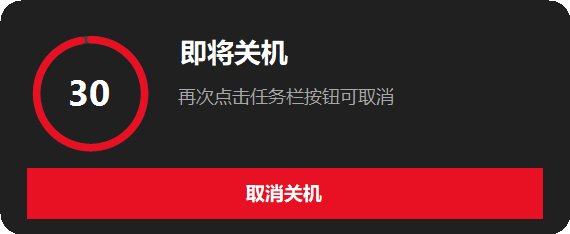
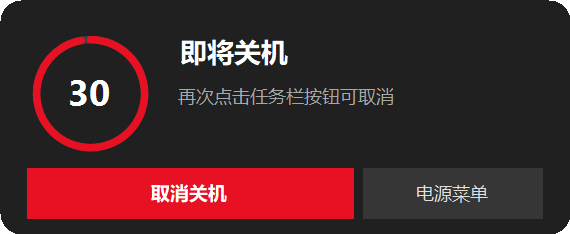
feat: power menu button on the countdown card; drop the right-click claim

Changed region(s): [[0.5965, 0.7179, 0.9544, 0.9573], [0.2386, 0.7778, 0.5667, 0.8675]]

diff --git a/src/PowerButton.cs b/src/PowerButton.cs
@@ -369,6 +369,7 @@ namespace PowerButton
                 case "preview.button": return en ? "Close preview" : (ja ? "プレビューを閉じる" : "关闭预览");
                 case "cancel.shutdown": return en ? "Cancel shutdown" : (ja ? "シャットダウンを中止" : "取消关机");
                 case "cancel.restart": return en ? "Cancel restart" : (ja ? "再起動を中止" : "取消重启");
+                case "card.menu": return en ? "Power menu" : (ja ? "電源メニュー" : "电源菜单");
 
                 case "menu.sleep": return en ? "Sleep" : (ja ? "スリープ" : "睡眠");
                 case "menu.restart": return en ? "Restart" : (ja ? "再起動" : "重启");
@@ -605,12 +606,16 @@ namespace PowerButton
         private readonly Label _caption = new Label();
         private readonly Label _detail = new Label();
         private readonly Button _cancel = new Button();
+        private readonly Button _menu = new Button();
 
         private bool _finished;
         private bool _cancelling;
 
         // 倒计时走完（而不是被取消）时为 true：由调用方在这之后真正执行关机。
         internal bool Expired;
+
+        // 卡片上的「电源菜单」被点时置位：取消这次倒计时，改由调用方打开菜单。
+        internal bool OpenMenuRequested;
 
         internal CountdownForm(PowerAction action, int seconds, EventWaitHandle signal, bool preview)
         {
@@ -645,7 +650,7 @@ namespace PowerButton
                 ? L.T("preview.hint")
                 : L.T("cancel.hint");
 
-            _cancel.SetBounds(Ui.P(18), Ui.P(112), Ui.P(344), Ui.P(34));
+            _cancel.SetBounds(Ui.P(18), Ui.P(112), Ui.P(218), Ui.P(34));
             _cancel.FlatStyle = FlatStyle.Flat;
             _cancel.FlatAppearance.BorderSize = 0;
             _cancel.FlatAppearance.MouseOverBackColor = Color.FromArgb(198, 12, 28);
@@ -657,10 +662,25 @@ namespace PowerButton
             _cancel.Cursor = Cursors.Hand;
             _cancel.Click += OnCancelClick;
 
+            // 右键在任务栏固定项上归 Explorer 管，快捷方式收不到；菜单挂在卡片上，
+            // 一次点击关机、再一眼就能看到菜单入口。
+            _menu.SetBounds(Ui.P(242), Ui.P(112), Ui.P(120), Ui.P(34));
+            _menu.FlatStyle = FlatStyle.Flat;
+            _menu.FlatAppearance.BorderSize = 0;
+            _menu.FlatAppearance.MouseOverBackColor = Color.FromArgb(78, 78, 78);
+            _menu.BackColor = Color.FromArgb(54, 54, 54);
+            _menu.ForeColor = Color.FromArgb(224, 224, 224);
+            _menu.Font = new Font(L.FontFamily, 9f);
+            _menu.Text = L.T("card.menu");
+            _menu.Cursor = Cursors.Hand;
+            _menu.Visible = !preview;
+            _menu.Click += OnMenuClick;
+
             Controls.Add(_ring);
             Controls.Add(_caption);
             Controls.Add(_detail);
             Controls.Add(_cancel);
+            Controls.Add(_menu);
 
             _timer.Interval = 40;
             _timer.Tick += OnTick;
@@ -732,6 +752,16 @@ namespace PowerButton
         private void OnCancelClick(object sender, EventArgs e)
         {
             RequestCancel();
+        }
+
+        private void OnMenuClick(object sender, EventArgs e)
+        {
+            if (_finished || _cancelling) return;
+            _cancelling = true;
+            _timer.Stop();
+            _finished = true;
+            OpenMenuRequested = true;
+            Close();
         }
 
         private void RequestCancel()
@@ -1249,6 +1279,12 @@ namespace PowerButton
             }
 
             // 只有倒计时真的走完才动手；被取消 / 窗口被关掉时什么都不做。
+            if (form != null && form.OpenMenuRequested)
+            {
+                RunMenu(Config.Delay);
+                return;
+            }
+
             if (form != null && form.Expired && !preview)
             {
                 if (!Native.ExitShutdown(action == PowerAction.Restart))

diff --git a/README.ja.md b/README.ja.md
@@ -20,7 +20,7 @@
 
 やりたいことはこれだけです。**ワンクリックでシャットダウン、数秒だけ取り消せる。** 確認ダイアログも、「もう一度押して確定」も、スタートメニューまで戻る手間もありません。
 
-右クリックで残りの電源メニュー——スリープ、再起動、サインアウト、ロック、ディスプレイをオフ、時間を指定してシャットダウン——が開きます。角丸も余白もフォントも Windows 11 に合わせて描いているので、どの拡大率でも、どの表示言語でも自然に見えます。
+カードには 2 つ目のボタンがあり、残りの電源メニュー——スリープ、再起動、サインアウト、ロック、ディスプレイをオフ、時間を指定してシャットダウン——が開きます。角丸も余白もフォントも Windows 11 に合わせて描いているので、どの拡大率でも、どの表示言語でも自然に見えます。
 
 <img src="docs/screenshots/01-taskbar.png" width="133" alt="スタートの隣に並んだ電源ボタン">
 
@@ -38,7 +38,7 @@
 - **フォーカスを奪いません**。カードは最前面の小さなウィンドウなので、後ろの作業も入力もそのまま続きます。
 - **すべて自前で描画**。リングもメニューも余白もフォントもプログラムが描くため、1080p でも 4K でも崩れません。
 
-<sub>裏側は静かです。ログなし、通信なし、常駐プロセスなし、管理者権限も不要。書き込むのはインストール時と設定変更時の 3 か所だけ——タスクバーのショートカット、`%LOCALAPPDATA%\PowerButton\`、`HKCU` の右クリックメニュー項目 1 つ。</sub>
+<sub>裏側は静かです。ログなし、通信なし、常駐プロセスなし、管理者権限も不要。書き込むのはインストール時と設定変更時の 3 か所だけ——タスクバーのショートカット、`%LOCALAPPDATA%\PowerButton\`、`HKCU` のシェル動詞 1 つ。</sub>
 
 ## インストール
 
@@ -65,7 +65,7 @@ cd taskbar-power-button
 powershell -NoProfile -ExecutionPolicy Bypass -File .\install.ps1
 ```
 
-`install.ps1` はアイコンを用意し、.NET Framework 付属の `csc.exe` で `src\PowerButton.cs` をコンパイルし、現在のショートカットをバックアップしてから同じ場所を書き換え、右クリックメニューの動詞を登録して、シェルを更新します。
+`install.ps1` はアイコンを用意し、.NET Framework 付属の `csc.exe` で `src\PowerButton.cs` をコンパイルし、現在のショートカットをバックアップしてから同じ場所を書き換え、`HKCU` にシェル動詞を登録して、シェルを更新します。
 </details>
 
 ## 使い方
@@ -74,14 +74,14 @@ powershell -NoProfile -ExecutionPolicy Bypass -File .\install.ps1
 | --- | --- |
 | **左クリック** | カウントダウン画面（既定 5 秒）が開きます。0 になって初めてシャットダウンします |
 | **カウントダウン中にもう一度クリック** | 中止します。Windows 側には何も登録していないので、取り消すべき処理は存在しません |
-| **<kbd>Esc</kbd> または画面内のボタン** | 上と同じ |
-| **<kbd>Shift</kbd> + 左クリック** | 電源メニューを開きます |
-| **タスクバーのボタンを右クリック →「電源メニュー」** | 同じメニューを開きます（エクスプローラーのメニューと合わせて 2 クリック） |
+| **<kbd>Esc</kbd> またはカードの「シャットダウンを中止」** | 上と同じ |
+| **<kbd>Shift</kbd> + 左クリック** | カウントダウンを始めずに電源メニューを開きます |
+| **カード内の「電源メニュー」ボタン** | カウントダウンを待たずに同じメニューを開きます |
 | **マウスを重ねる** | ショートカット自身のツールチップ（エクスプローラーが描画） |
 
 メニューの内容は **スリープ · 再起動 · シャットダウン · サインアウト · ロック · ディスプレイをオフ · 時間を指定してシャットダウン… · シャットダウンを中止 · カウントダウン設定…**。再起動も同じ中止できるカウントダウンを通ります。
 
-ツールチップの文言と右クリックメニューの名前もプログラムがシステム言語で生成するので、日本語・中国語・英語のどの環境でも自然な表記になります。
+ツールチップの文言も、カードとメニュー内のすべてのラベルもプログラムがシステム言語で生成するので、日本語・中国語・英語のどの環境でも自然な表記になります。
 
 ## 機能
 
@@ -93,7 +93,7 @@ powershell -NoProfile -ExecutionPolicy Bypass -File .\install.ps1
 | Windows のシャットダウン通知を出さない | Windows が「1 分以内にシャットダウンします」と出すのは、シャットダウンが*予約*されている間だけです。このツールは予約せず、カウントダウンが 0 になってから `ExitWindowsEx` を呼ぶので、システムのダイアログは出ません |
 | 強制終了しない | `shutdown.exe /f` も `EWX_FORCE` も使いません。閉じるのを拒否するアプリは従来どおり「これらのアプリがシャットダウンを妨げています」画面に進むので、未保存の作業が消えることはありません |
 | 同じ場所・同じアイコン位置 | 既存の `.lnk` をその場で書き換えるので、ピン留めが二重になりません |
-| 多言語 | UI、ツールチップ、右クリックメニュー名が Windows の表示言語に追従します |
+| 多言語 | UI、ツールチップ、カードとメニューが Windows の表示言語に追従します |
 | 単一ファイル・ランタイム不要 | 約 400 KB の WinForms 実行ファイル。`csc.exe` でビルドでき、インストールも常駐もしません |
 
 ## 設定
@@ -164,11 +164,11 @@ $env:POWERBUTTON_LANG = 'zh'
 PowerButton.exe --lang zh
 ```
 
-フォントも言語に合わせて切り替えます（`Microsoft YaHei UI`、`Yu Gothic UI`、`Segoe UI`）。日本語の漢字が中国語の字形で描かれるのを避けるためです。メニューの幅は最も長い項目から測るので、長い日本語ラベルも切れません。言語を変えたあとにツールチップと右クリックメニュー名を更新したい場合は、`install.ps1` をもう一度実行してください。
+フォントも言語に合わせて切り替えます（`Microsoft YaHei UI`、`Yu Gothic UI`、`Segoe UI`）。日本語の漢字が中国語の字形で描かれるのを避けるためです。メニューの幅は最も長い項目から測るので、長い日本語ラベルも切れません。言語を変えたあとにツールチップを更新したい場合は、`install.ps1` をもう一度実行してください。
 
 ## 既知の制限
 
-- **長押しと、右クリックでの直接メニュー表示には対応していません。** タスクバーのボタンはエクスプローラーのもので、ピン留めしたショートカットにできるのは「プログラムを起動する」ことだけです。しかもプログラムはクリックの*後*に起動するため、押下・長押し・右クリックのイベントを受け取れません。実現するには常駐プロセスと `WH_MOUSE_LL` のローレベルフック、解像度・DPI・マルチモニターの変化ごとのボタン矩形の再計算が必要です。本プロジェクトは意図的に常駐しません。2 つ目の導線は <kbd>Shift</kbd> + 左クリックです。
+- **タスクバーのボタンを右クリックすると開くのはエクスプローラーのメニューで、このアプリのメニューではありません。長押しも反応しません。** タスクバーのボタンはエクスプローラーのもので、ピン留めしたショートカットにできるのは「プログラムを起動する」ことだけです。しかもプログラムはクリックの*後*に起動するため、押下・長押し・右クリックのイベントを受け取れませんし、登録した動詞もピン留め項目には現れません。実現するには常駐プロセスと `WH_MOUSE_LL` のローレベルフック、解像度・DPI・マルチモニターの変化ごとのボタン矩形の再計算が必要です。本プロジェクトは意図的に常駐しません。メニューの導線は <kbd>Shift</kbd> + 左クリックと、カード内の「電源メニュー」ボタンの 2 つです。
 - **メニューの「時間を指定してシャットダウン…」だけは今も `shutdown.exe` を使います。** 予約したシャットダウンはこのプロセスの終了後も生きている必要があるためです。残り 60 秒で Windows 自身のダイアログが出ますが、これは予約シャットダウンの仕様です。
 - **実行中に DPI が変わるモニターには追従しません。** UI は起動時に取得した DPI で拡大縮小します。異なる拡大率のモニターへ移動すると、再起動するまでサイズが合わないことがあります。
 - Windows 11 24H2 / 25H2、150 % 拡大で動作確認しています。Windows 10 でも動くはずですが（使用している API はすべて以前からあります）、実機確認はしていません。

diff --git a/README.md b/README.md
@@ -20,7 +20,7 @@ Click the power button and a five-second countdown drops into the corner of the 
 
 That is the whole idea. **One click to shut down, a few seconds to change your mind.** No confirmation dialog, no second click to commit, no trip back to the Start menu.
 
-Right click opens the rest of the power menu — sleep, restart, sign out, lock, display off, shut down later — drawn in the same language as the button: same radius, same spacing, same font as the rest of Windows 11, at any DPI, in your system language.
+The card carries a second button for everything else — sleep, restart, sign out, lock, display off, shut down later. The menu is drawn in the same language as the button: same radius, same spacing, same font as the rest of Windows 11, at any DPI, in your system language.
 
 <img src="docs/screenshots/01-taskbar.png" width="133" alt="The power button next to Start">
 
@@ -38,7 +38,7 @@ Right click opens the rest of the power menu — sleep, restart, sign out, lock,
 - **It never steals focus.** The card is a small always-on-top window: work behind it keeps running, and typing keeps going to the app you were using.
 - **Everything is drawn.** Ring, menu, spacing and font are the program's own, so it holds up on a 1080p laptop and a 4K desk alike.
 
-<sub>Under the hood it stays quiet: no logs, no network, no background process, no admin rights. It writes in exactly three places — the pinned shortcut, `%LOCALAPPDATA%\PowerButton\`, and one `HKCU` context-menu entry — and only when you install or change a setting.</sub>
+<sub>Under the hood it stays quiet: no logs, no network, no background process, no admin rights. It writes in exactly three places — the pinned shortcut, `%LOCALAPPDATA%\PowerButton\`, and one shell-verb key in `HKCU` — and only when you install or change a setting.</sub>
 
 ## Install
 
@@ -65,7 +65,7 @@ cd taskbar-power-button
 powershell -NoProfile -ExecutionPolicy Bypass -File .\install.ps1
 ```
 
-`install.ps1` copies or regenerates the icon, compiles `src\PowerButton.cs` with the `csc.exe` that ships with .NET Framework, backs up your current shortcut, rewrites it in place, registers the context-menu verb, and refreshes the shell.
+`install.ps1` copies or regenerates the icon, compiles `src\PowerButton.cs` with the `csc.exe` that ships with .NET Framework, backs up your current shortcut, rewrites it in place, registers a shell verb in `HKCU`, and refreshes the shell.
 </details>
 
 ## Usage
@@ -74,14 +74,14 @@ powershell -NoProfile -ExecutionPolicy Bypass -File .\install.ps1
 | --- | --- |
 | **Left click** | Opens a countdown window (5 s by default). The machine shuts down only when it reaches zero. |
 | **Click again during the countdown** | Cancels. Windows was never asked to shut down, so there is nothing to abort. |
-| **<kbd>Esc</kbd> or the button in the window** | Same as above. |
-| **<kbd>Shift</kbd> + left click** | Opens the power menu. |
-| **Right click the taskbar button → *Power menu*** | Opens the same menu (this costs two clicks: the Explorer menu, then the verb). |
+| **<kbd>Esc</kbd> or *Cancel shutdown* in the card** | Same as above. |
+| **<kbd>Shift</kbd> + left click** | Opens the power menu instead of the countdown. |
+| **The *Power menu* button in the card** | Opens the same menu without waiting out the countdown. |
 | **Hover** | The shortcut's own tooltip, drawn by Explorer. |
 
 The menu offers **Sleep · Restart · Shut down · Sign out · Lock · Turn off display · Shut down later… · Cancel shutdown · Countdown settings…**. Restart goes through the same cancellable countdown.
 
-Both the tooltip text and the context-menu label are generated by the program in your system language, so they read naturally on a Japanese, Chinese or English machine.
+The tooltip text and every label inside the card and menu are generated by the program in your system language, so they read naturally on a Japanese, Chinese or English machine.
 
 ## Features
 
@@ -93,7 +93,7 @@ Both the tooltip text and the context-menu label are generated by the program in
 | No Windows shutdown dialog | Windows only shows its "shutting down in less than a minute" box while a shutdown is *scheduled*. This tool schedules nothing and calls `ExitWindowsEx` when the countdown ends, so no system dialog appears. |
 | No forced close | `shutdown.exe /f` and `EWX_FORCE` are never used: apps that refuse to close still get their "these apps are preventing shutdown" screen, so unsaved work is not destroyed. |
 | Same slot, same icon position | The existing `.lnk` is rewritten in place instead of creating a second pin. |
-| Localisation | The UI, the tooltip and the context-menu label follow the Windows display language. |
+| Localisation | The UI, the tooltip, the card and the menu follow the Windows display language. |
 | One file, no runtime | A ~400 KB WinForms executable compiled by `csc.exe`; nothing to install, nothing resident. |
 
 ## Configuration
@@ -164,11 +164,11 @@ $env:POWERBUTTON_LANG = 'zh'
 PowerButton.exe --lang zh
 ```
 
-Fonts switch with the language (`Microsoft YaHei UI`, `Yu Gothic UI`, `Segoe UI`) so Japanese kanji are not drawn with Chinese glyph shapes, and the menu measures its widest item so long Japanese labels are never clipped. To refresh the tooltip and the context-menu label after switching, re-run `install.ps1`.
+Fonts switch with the language (`Microsoft YaHei UI`, `Yu Gothic UI`, `Segoe UI`) so Japanese kanji are not drawn with Chinese glyph shapes, and the menu measures its widest item so long Japanese labels are never clipped. To refresh the tooltip after switching, re-run `install.ps1`.
 
 ## Limitations
 
-- **Long-press and direct right-click are not supported.** A taskbar button belongs to Explorer; a pinned shortcut can only "start a program", and this program starts *after* the click, so it never sees press, hold or right-click events. Real gestures would need a resident process, a `WH_MOUSE_LL` hook and recomputing the button rectangle on every resolution, DPI or monitor change. This project deliberately stays resident-free; the second entry point is <kbd>Shift</kbd> + click.
+- **Right-clicking the taskbar button opens Explorer's menu, not ours, and long-press does nothing.** A taskbar button belongs to Explorer; a pinned shortcut can only "start a program", and this program starts *after* the click, so it never sees press, hold or right-click events — and its registered verb does not surface on the pinned item. Real gestures would need a resident process, a `WH_MOUSE_LL` hook and recomputing the button rectangle on every resolution, DPI or monitor change. This project deliberately stays resident-free, so the two menu entry points are <kbd>Shift</kbd> + click and the *Power menu* button on the card.
 - **"Shut down later…" is the one path that still uses `shutdown.exe`**, because the scheduled shutdown has to outlive this process. At the 60-second mark Windows shows its own dialog — that is inherent to scheduled shutdowns.
 - **Per-monitor DPI switching is not handled live.** The UI scales from the DPI it sees at startup; moving the window to a monitor with a different scale factor may leave it slightly large or small until restart.
 - Tested on Windows 11 24H2/25H2 at 150 % scaling. Windows 10 should work (the APIs are all long-standing) but has not been tested.

diff --git a/README.zh-CN.md b/README.zh-CN.md
@@ -20,7 +20,7 @@
 
 这就是全部想法。**一键关机，几秒钟反悔。** 不要确认框，不要「再点一次才算数」，也不用每次绕回开始菜单。
 
-右键展开其余电源操作——睡眠、重启、注销、锁定、关屏、定时关机——和按钮同一套画风：同样的圆角、同样的间距、同样的字体，任何缩放比例、任何系统语言下都一致。
+卡片上还有第二个按钮，展开其余电源操作——睡眠、重启、注销、锁定、关屏、定时关机。菜单和按钮同一套画风：同样的圆角、同样的间距、同样的字体，任何缩放比例、任何系统语言下都一致。
 
 <img src="docs/screenshots/01-taskbar.png" width="133" alt="电源按钮就排在「开始」旁边">
 
@@ -38,7 +38,7 @@
 - **从不抢焦点**：卡片只是一个置顶小窗，后面的工作照常跑，键盘输入也还落在你正在用的程序里。
 - **全部是画出来的**：圆环、菜单、间距、字体都由程序自己绘制，1080p 笔记本和 4K 显示器上都不会变形。
 
-<sub>幕后很克制：没有日志、没有联网、没有常驻进程、不需要管理员权限。只在安装或改设置时写三个地方——任务栏快捷方式、`%LOCALAPPDATA%\PowerButton\`、一条 `HKCU` 右键菜单项。</sub>
+<sub>幕后很克制：没有日志、没有联网、没有常驻进程、不需要管理员权限。只在安装或改设置时写三个地方——任务栏快捷方式、`%LOCALAPPDATA%\PowerButton\`、一条 `HKCU` 外壳动词键。</sub>
 
 ## 安装
 
@@ -65,7 +65,7 @@ cd taskbar-power-button
 powershell -NoProfile -ExecutionPolicy Bypass -File .\install.ps1
 ```
 
-`install.ps1` 会准备图标 → 用 .NET Framework 自带的 `csc.exe` 编译 `src\PowerButton.cs` → 备份原快捷方式 → 原地改写 → 注册右键动词 → 刷新外壳。
+`install.ps1` 会准备图标 → 用 .NET Framework 自带的 `csc.exe` 编译 `src\PowerButton.cs` → 备份原快捷方式 → 原地改写 → 注册 `HKCU` 外壳动词 → 刷新外壳。
 </details>
 
 ## 用法
@@ -74,14 +74,14 @@ powershell -NoProfile -ExecutionPolicy Bypass -File .\install.ps1
 | --- | --- |
 | **左键单击** | 弹出倒计时窗（默认 5 秒）；数到 0 才真正关机 |
 | **倒计时期间再点一次** | 取消。系统侧本来就没排入任何关机，所以没有东西需要中止 |
-| **<kbd>Esc</kbd> 或窗口里的按钮** | 同上 |
-| **<kbd>Shift</kbd> + 左键** | 打开电源菜单 |
-| **右键任务栏按钮 →「电源菜单」** | 打开同一个菜单（两次点击：先资源管理器菜单，再选动词） |
+| **<kbd>Esc</kbd> 或卡片上的「取消关机」** | 同上 |
+| **<kbd>Shift</kbd> + 左键** | 直接打开电源菜单（不启动倒计时） |
+| **卡片上的「电源菜单」按钮** | 不等倒计时结束，打开同一个菜单 |
 | **鼠标悬停** | 快捷方式自带的提示气泡，由资源管理器绘制 |
 
 菜单包含 **睡眠 · 重启 · 关机 · 注销 · 锁定 · 关闭显示器 · 定时关机… · 取消关机 · 倒计时设置…**。重启也走同一条可取消的倒计时。
 
-悬停说明和右键菜单项的名字都由程序按系统语言生成，所以在日文、中文、英文机器上读起来都是母语写法。
+悬停说明、卡片和菜单里的文案都由程序按系统语言生成，所以在日文、中文、英文机器上读起来都是母语写法。
 
 ## 功能
 
@@ -93,7 +93,7 @@ powershell -NoProfile -ExecutionPolicy Bypass -File .\install.ps1
 | 不弹 Windows 关机提示 | Windows 只在关机被*排期*时才弹「将在 1 分钟内关机」；本程序不预排，倒计时结束才调 `ExitWindowsEx`，所以不弹框 |
 | 从不强杀程序 | 从不使用 `shutdown.exe /f` 或 `EWX_FORCE`：拒绝关闭的程序仍会走系统「这些应用阻止关机」那一步，未保存的工作不会被销毁 |
 | 原位替换 | 原地改写已有的 `.lnk`，不新建第二个固定项 |
-| 多语言 | 界面、悬停说明、右键菜单名都跟随 Windows 显示语言 |
+| 多语言 | 界面、悬停说明、卡片与菜单都跟随 Windows 显示语言 |
 | 单文件、无运行时 | 约 400 KB 的 WinForms 程序，由 `csc.exe` 编译；无需安装、不常驻 |
 
 ## 设置
@@ -164,11 +164,11 @@ $env:POWERBUTTON_LANG = 'zh'
 PowerButton.exe --lang zh
 ```
 
-字体随语言切换（`Microsoft YaHei UI`、`Yu Gothic UI`、`Segoe UI`），避免日文汉字被中文字形渲染；菜单宽度按最长的一条量出来，日文长标签不会被截断。换语言后想刷新悬停说明和右键菜单名，重跑一次 `install.ps1`。
+字体随语言切换（`Microsoft YaHei UI`、`Yu Gothic UI`、`Segoe UI`），避免日文汉字被中文字形渲染；菜单宽度按最长的一条量出来，日文长标签不会被截断。换语言后想刷新悬停说明，重跑一次 `install.ps1`。
 
 ## 已知限制
 
-- **不支持长按，也不支持右键直接弹菜单。** 任务栏按钮是资源管理器的；固定快捷方式只能「启动一个程序」，而程序是在点击*之后*才启动的，收不到按下、长按、右键事件。真要做需要常驻进程 + `WH_MOUSE_LL` 低级鼠标钩子 + 每次分辨率/DPI/多屏变化重算按钮矩形。本项目刻意不常驻，第二个入口是 <kbd>Shift</kbd> + 左键。
+- **右键任务栏按钮弹出的是资源管理器的菜单，不是我们的；长按也没有反应。** 任务栏按钮是资源管理器的；固定快捷方式只能「启动一个程序」，而程序是在点击*之后*才启动的，收不到按下、长按、右键事件——注册的动词也不会出现在固定项上。真要做需要常驻进程 + `WH_MOUSE_LL` 低级鼠标钩子 + 每次分辨率/DPI/多屏变化重算按钮矩形。本项目刻意不常驻，所以菜单的两个入口是 <kbd>Shift</kbd> + 左键，以及卡片上的「电源菜单」按钮。
 - **菜单里的「定时关机…」是唯一仍走 `shutdown.exe` 的路径**，因为排期的关机必须在本进程退出后继续存活；到剩余 60 秒时 Windows 会弹它自己的提示框——这是排期关机的固有行为。
 - **不处理运行中切换 DPI 的显示器。** 界面按启动时的 DPI 缩放；把窗口拖到不同缩放比的显示器上，可能需要重开才恢复合适大小。
 - 在 Windows 11 24H2/25H2、150% 缩放下测试。Windows 10 应当可用（用到的 API 都很老），但未实测。
